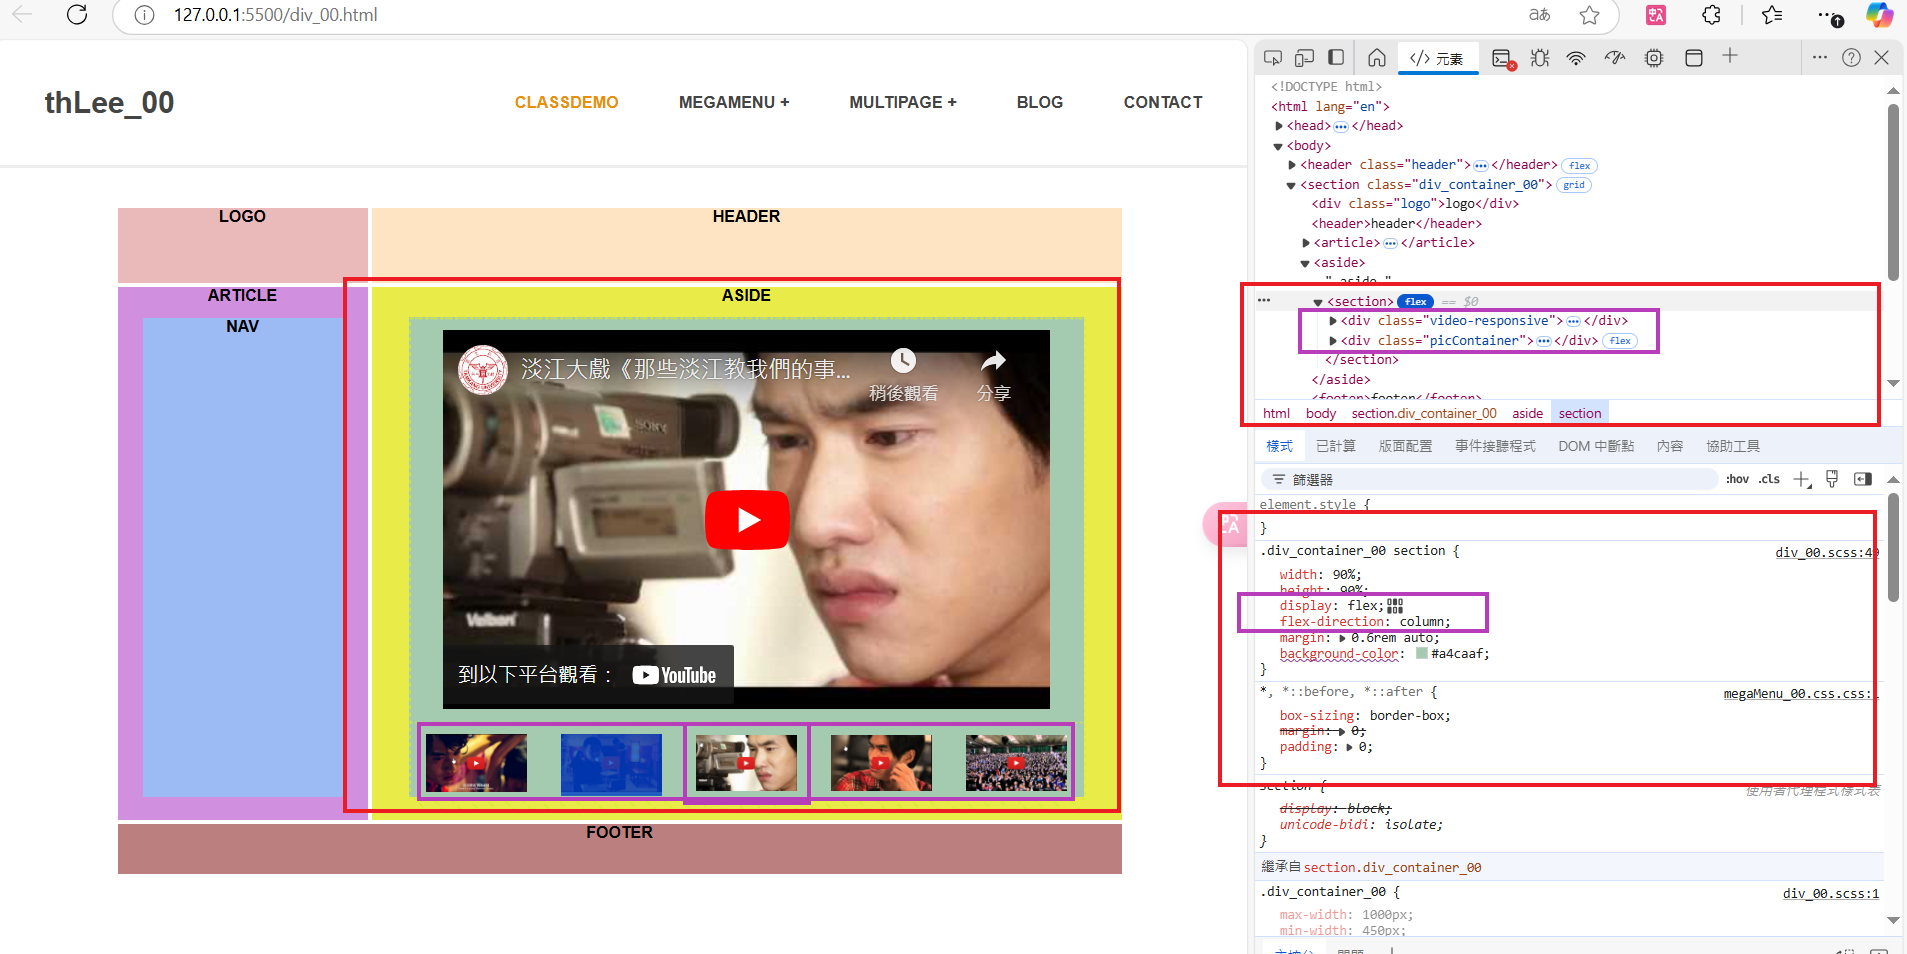
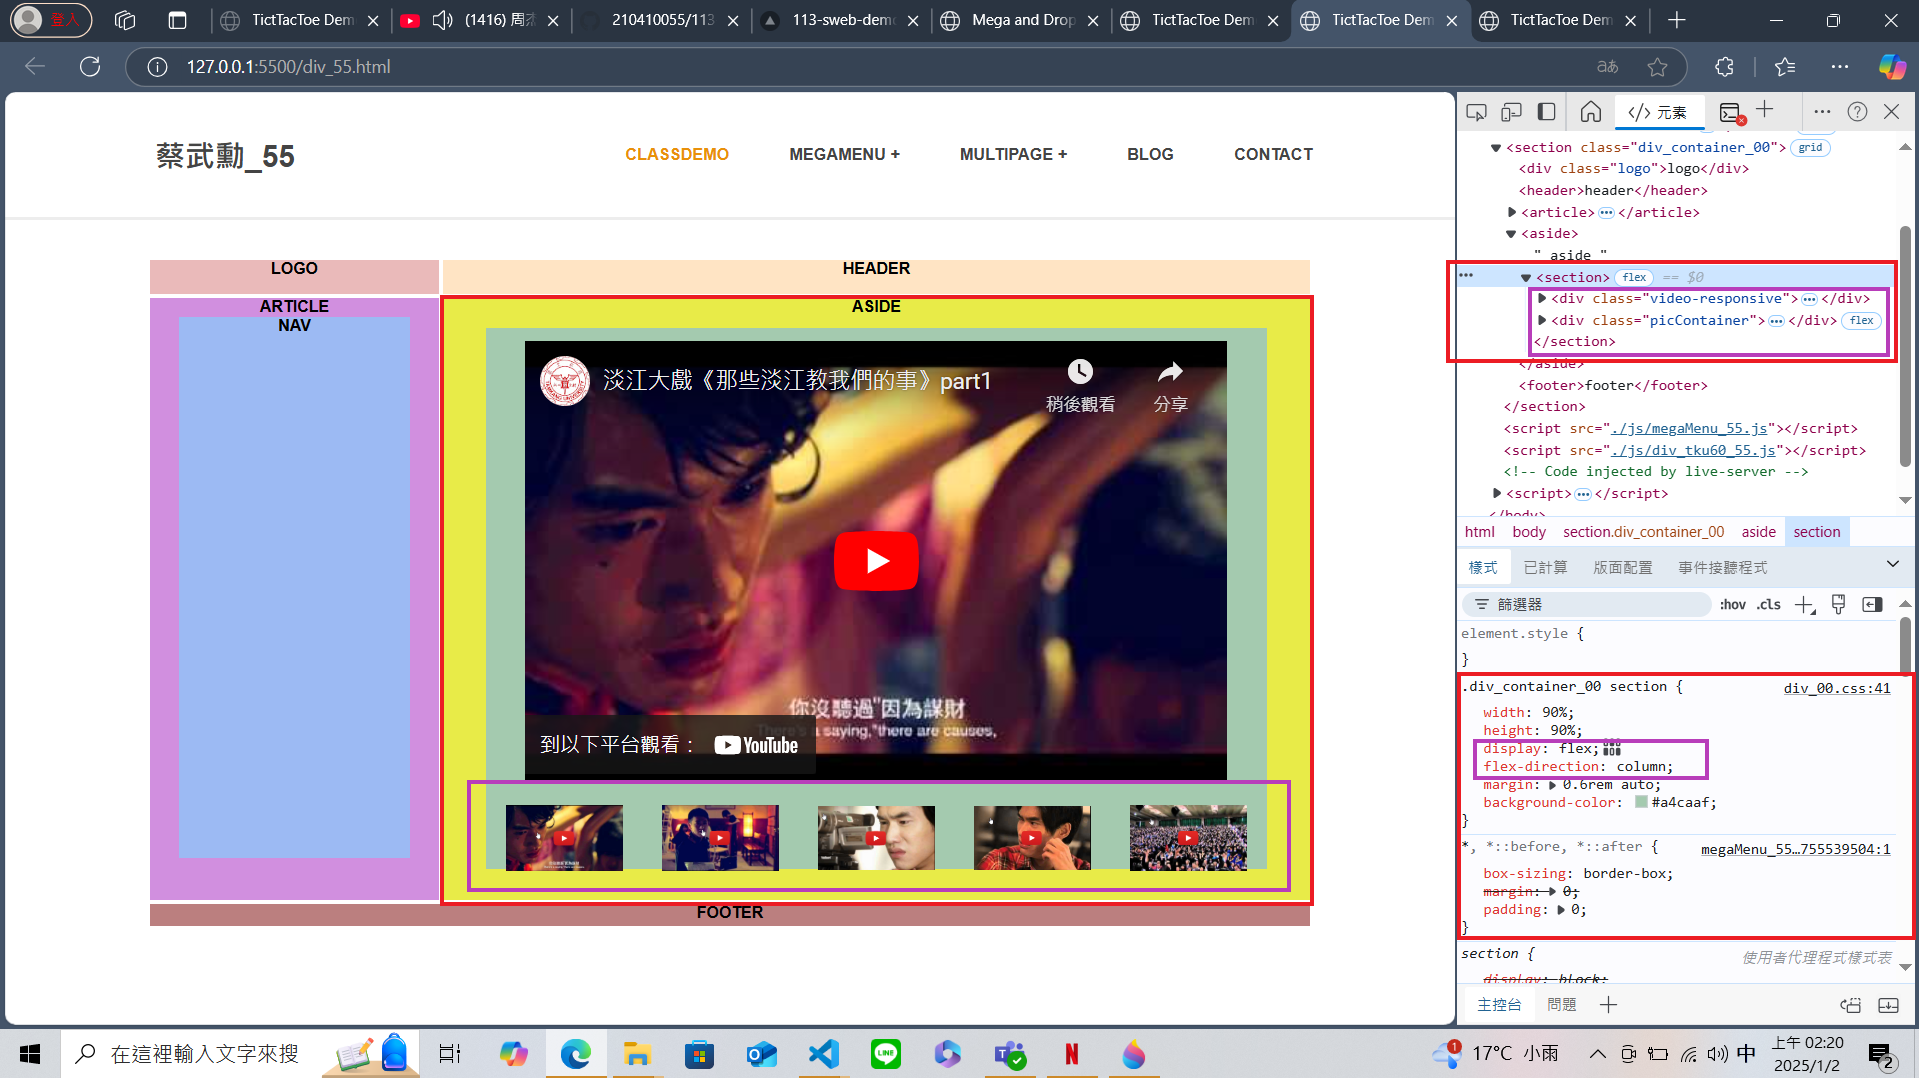
W15-P2: Show div_xx.html correctly

diff --git a/css/div_55.css b/css/div_55.css
@@ -1,4 +1,4 @@
-/* .div_container_00 {
+.div_container_00 {
   max-width: 1000px;
   min-width: 400px;
   background-color: #fff;
@@ -15,9 +15,9 @@
   text-transform: uppercase;
   font-weight: 600;
   font-size: 0.8rem;
-} */
+}
 
-/* .div_container_00 .logo {
+.div_container_00 .logo {
   background-color: #eababa;
   grid-area: logo;
 }
@@ -42,9 +42,9 @@
 .div_container_00 aside {
   background-color: rgb(232, 235, 72);
   grid-area: aside;
-} */
+}
 
-/* .div_container_00 section {
+.div_container_00 section {
   width: 90%;
   height: 90%;
   display: flex;
@@ -81,16 +81,16 @@
   width: 15%;
   margin: 10px;
   cursor: pointer;
-} */
+}
 
-/* .div_container_00 .picContainer .small_pic img {
+.div_container_00 .picContainer .small_pic img {
   width: 100%;
 }
 
 .div_container_00 footer {
   background-color: rgb(187, 127, 127);
   grid-area: footer;
-} */
+}
 
 @media screen and (max-width: 550px) {
   .div_container_00 {
